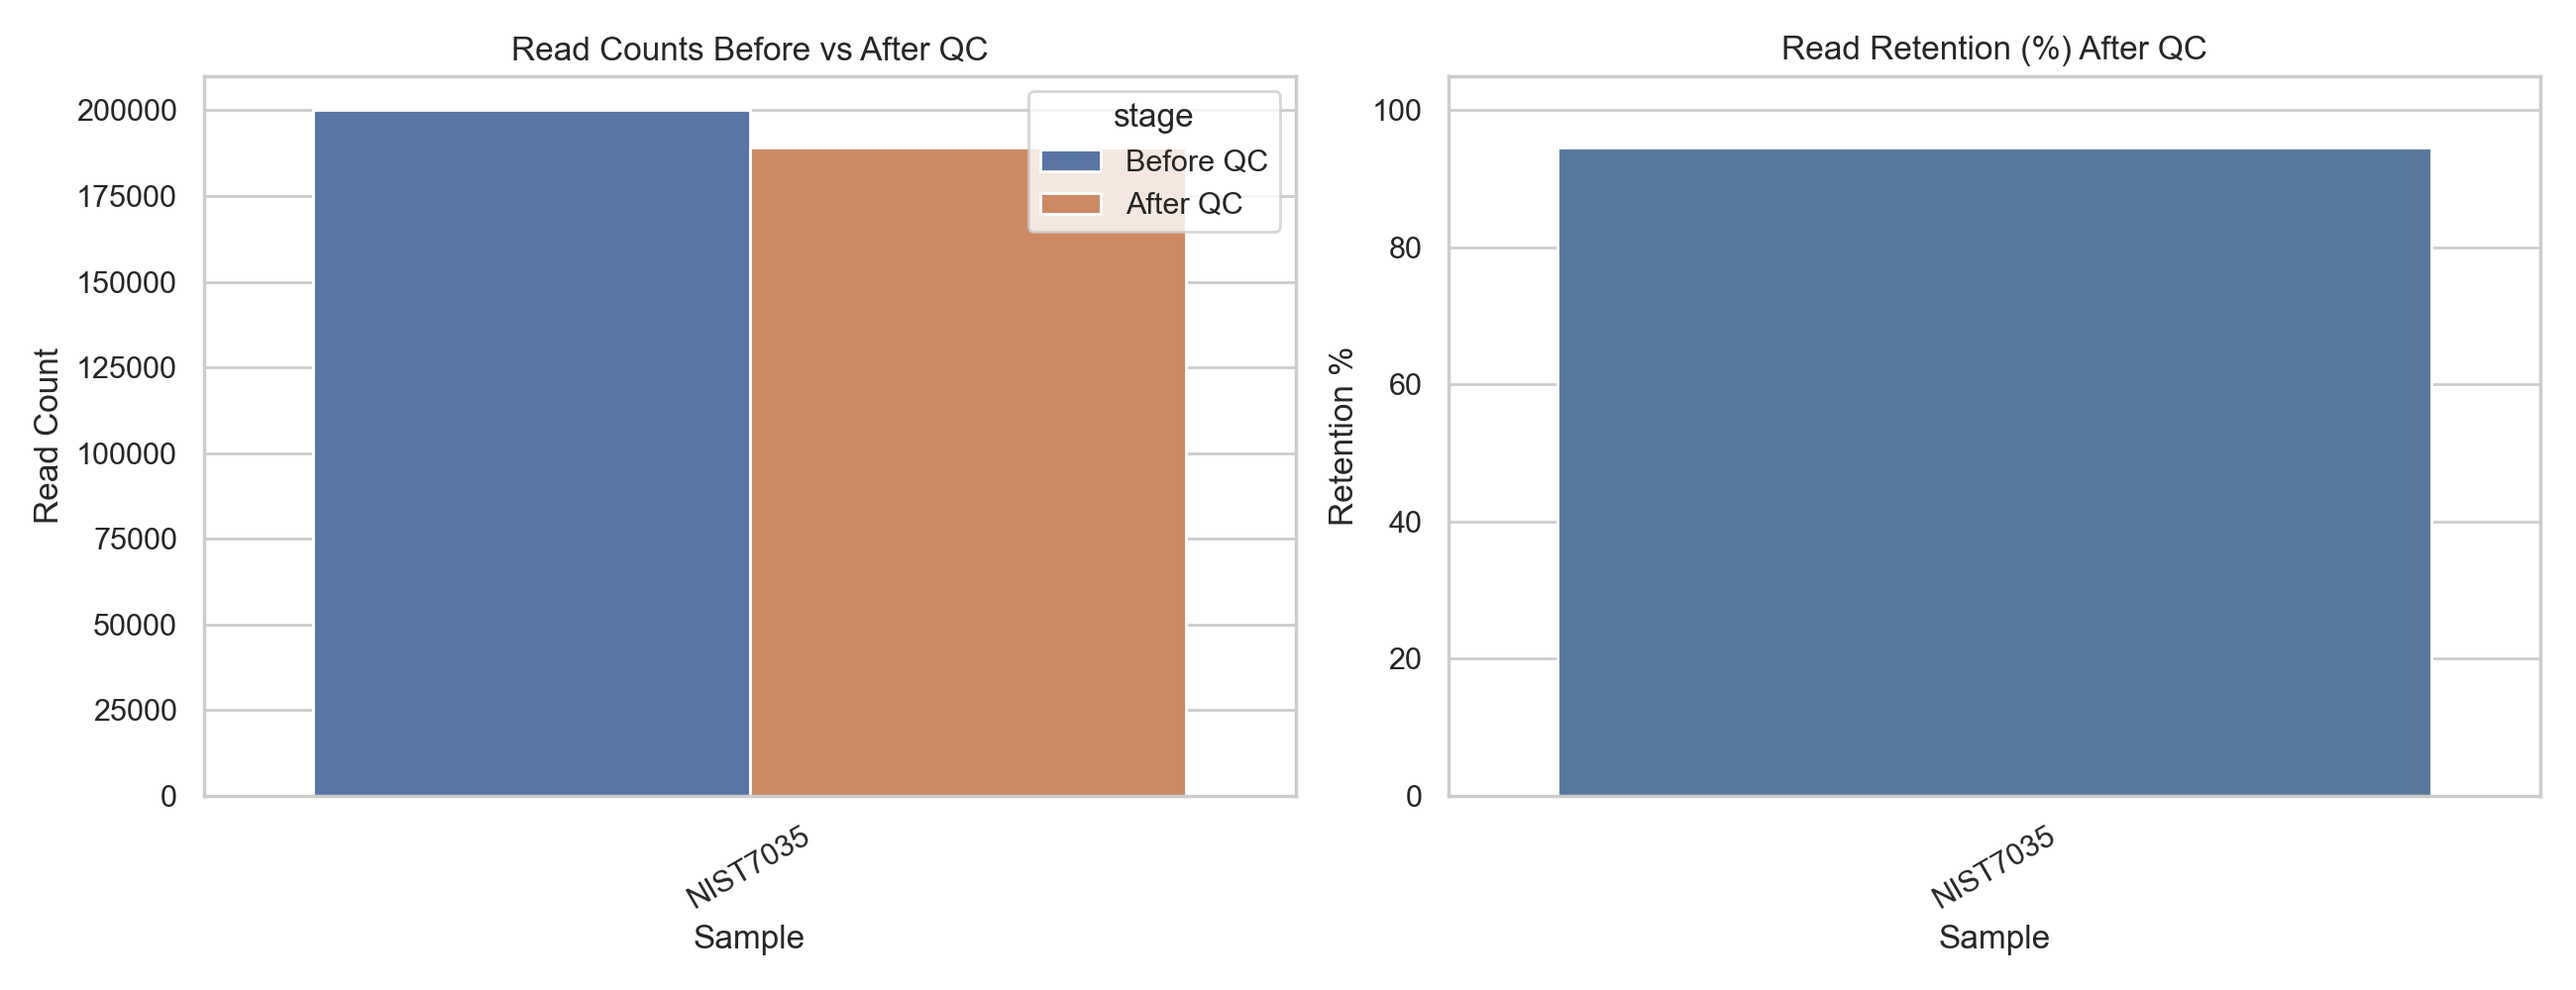
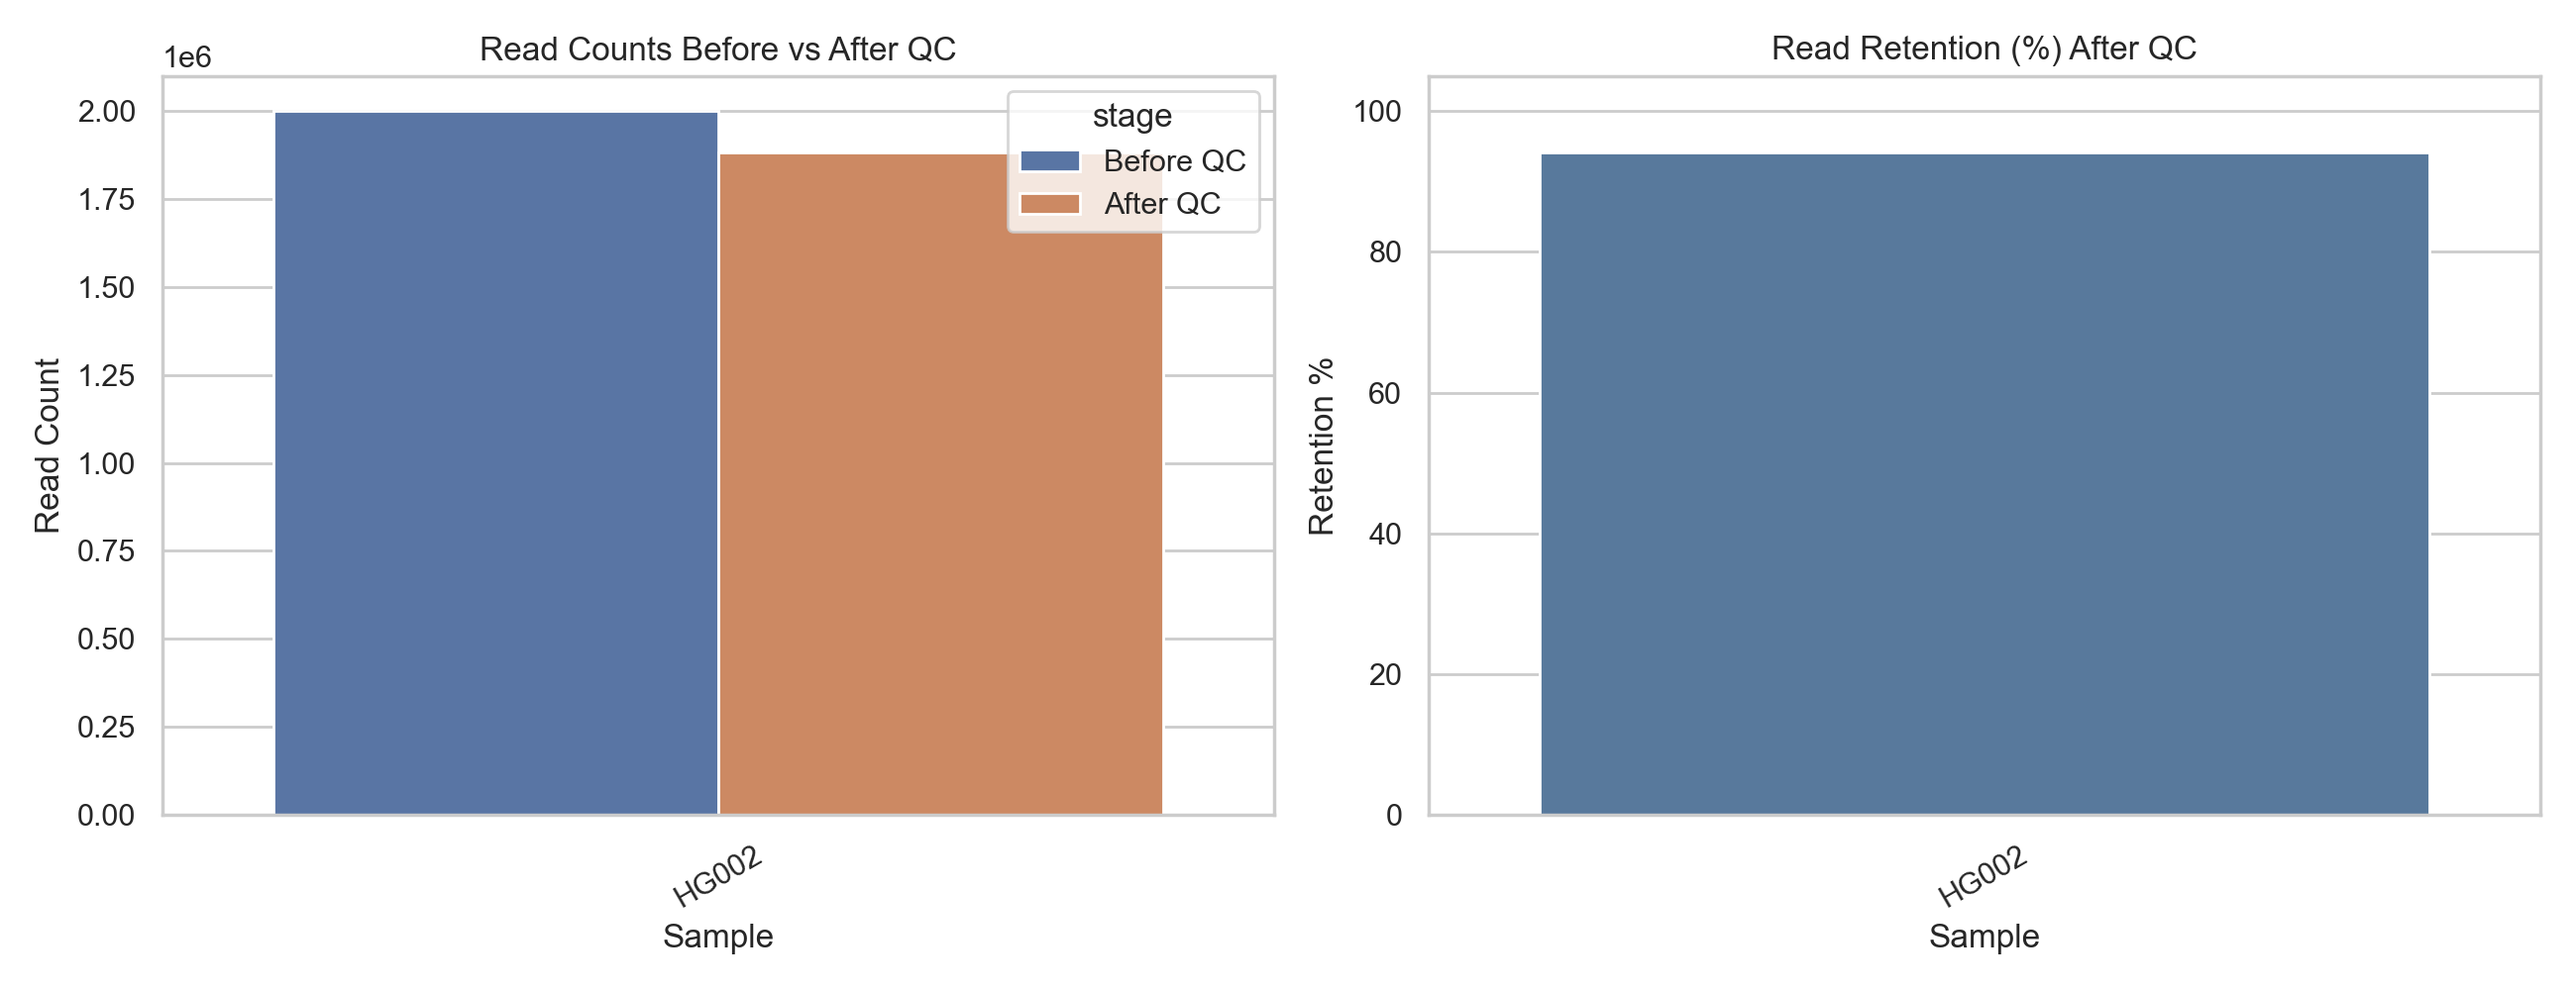
Refresh full-mode README example with GIAB HG002 run

diff --git a/README.md b/README.md
@@ -331,34 +331,47 @@ Interpretation notes from this test:
 
 ![PRS Distribution (1000G chr19 example)](docs/assets/readme/variant_only/prs_distribution.png)
 
-### 3) Full Mode (FASTQ -> Alignment -> Variant Calling; local smoke test)
+### 3) Full Mode (GIAB HG002 short-read DNA; practical-depth test run)
 
 Example run type:
-- `full` mode with DNA input
-- Local subset FASTQ used for fast end-to-end path validation
+- `full` mode with DNA short-read input
+- GIAB benchmark sample subset (`HG002`)
+- Example output directory: `results_giab_hg002_full_20260224_practical_depth_hg002`
 
 What this demonstrates:
-- Read QC and trimming
-- Alignment
-- Variant calling/filtering
-- Variant interpretation outputs
+- End-to-end FASTQ processing (QC -> trimming -> alignment -> duplicate marking -> variant calling/filtering)
+- Variant QC metrics and visualization from a real benchmark sample
+- Depth summary generation using `mosdepth` summaries + optional per-base depth TSV
+- Variant-to-gene mapping and enrichment output generation in `full` mode
 
-Observed test-run QC outcome (example):
-- Read retention after filtering: `94.574%`
-- Q30 fraction improved from `0.923595` to `0.949523`
+Observed test-run QC outcome (HG002 practical-depth example):
+- Read retention after filtering: `94.167%`
+- Bases retention after filtering: `93.927%`
+- Q30 fraction improved from `0.905889` to `0.933511`
 
-Observed test-run variant QC outcome (example):
-- `total_variants = 1962`
-- `snp_count = 1870`
-- `ts/tv = 1.46377`
+Observed test-run variant QC outcome (HG002 practical-depth example):
+- `total_variants = 13520`
+- `snp_count = 12556`
+- `indel_count = 905`
+- `multiallelic_count = 59`
+- `ts/tv = 1.53657`
 
-These values are from a small local test subset and are useful for pipeline validation, not clinical or cohort-level interpretation.
+Observed depth summary (same run):
+- `mean_depth = 0.089x`
+- `pct_cov_ge_1x = 8.0%`
+- `pct_cov_ge_10x = 0.0%`
+- Depth summary source: `mosdepth`
 
-![QC Before/After Summary (Full mode example)](docs/assets/readme/full/qc_before_after.png)
+Biological importance (and limits) of this full-mode example:
+- `HG002` is a widely used Genome in a Bottle benchmark sample, so this run is biologically useful for **technical validation** of variant-calling and QC behavior across the full pipeline.
+- The run confirms the pipeline preserves expected processing signals (improved post-trim read quality, plausible SNV/indel composition, usable annotation/enrichment outputs) on real sequencing-derived data.
+- Because this is a **practical-depth subset / benchmark-style test**, the enrichment output should be interpreted as a demonstration of the annotation + pathway workflow, not as disease-specific biological discovery.
 
-![Variant Type Counts (Full mode example)](docs/assets/readme/full/variant_type_counts.png)
+![QC Before/After Summary (GIAB HG002 full-mode example)](docs/assets/readme/full/qc_before_after.png)
 
-![Variant Enrichment Dotplot (Full mode example)](docs/assets/readme/full/variant_enrichment_dotplot.png)
+![Variant Type Counts (GIAB HG002 full-mode example)](docs/assets/readme/full/variant_type_counts.png)
+
+![Variant Enrichment Dotplot (GIAB HG002 full-mode example)](docs/assets/readme/full/variant_enrichment_dotplot.png)
 
 ## Notes
 
